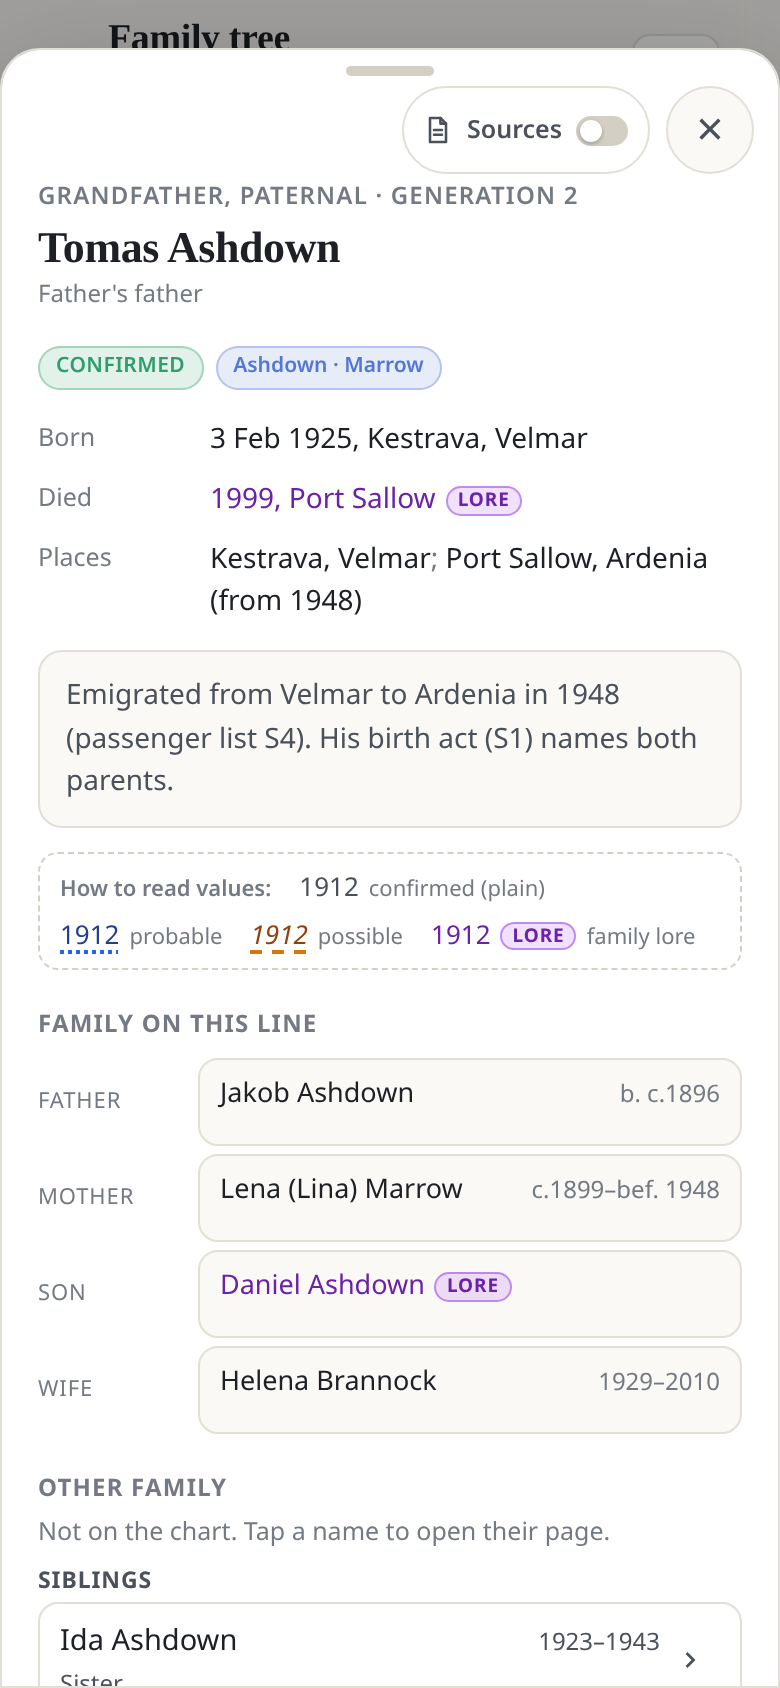
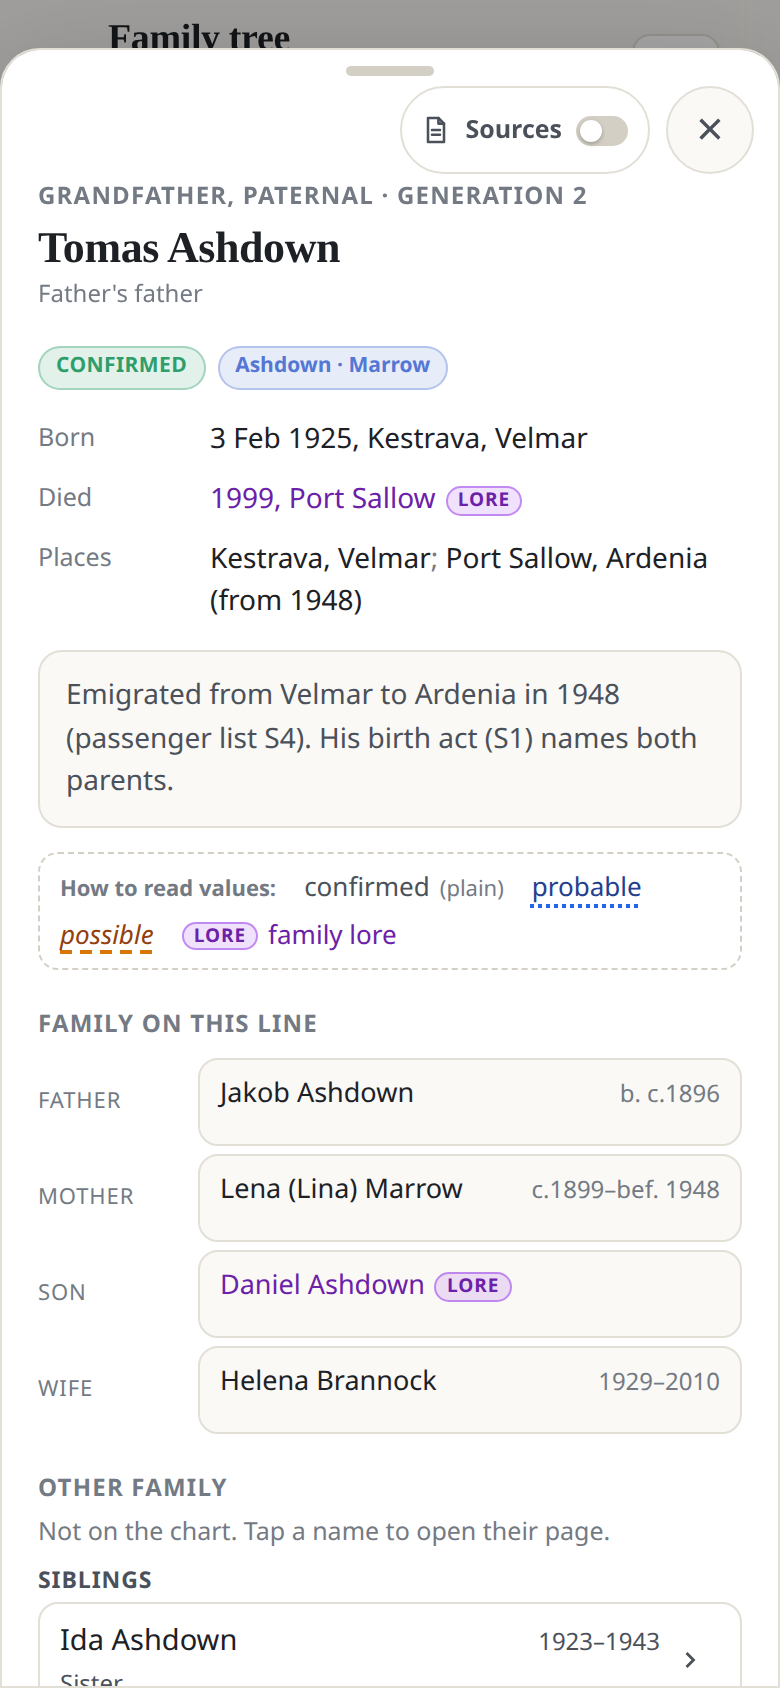
README: restructure sections (approach, how it works, limitations, run it) (#6)
* README: restructure sections (approach, how it works, limitations, run it)

* README: License spelling

* README: refresh legend screenshots (colored words, no sample dates)

---------

diff --git a/README.md b/README.md
@@ -19,56 +19,91 @@ place and record in this repository belongs to an invented example family.
 
 *All names, places and records in these screenshots are invented.*
 
-## Install the private site as an app (PWA)
-The generated site ships a web app manifest, service worker and fan-chart home-screen icons.
-On phone or desktop, open the published URL (behind your login), use the browser’s **Add to Home Screen** / **Install**, and you get a standalone Family Tree app with the circular fan icon.
+## Approach
 
-## What you need
-**A plain chat assistant is not enough.** The agent must have:
-- **persistent files** (research runs over days or weeks, with hundreds of files and scans);
-- a **shell** with Python 3 (+ Pillow), Node.js (npm) and curl;
-- a **browser it can drive** (many archives are JavaScript viewers or block plain HTTP clients);
-- **image reading** (handwritten registers in many languages and scripts);
-- **background / long-running work** and **scheduling** (research passes, reply watch, Access check);
-- **secret storage** (the user's logins and the Cloudflare token);
-- a way to **ask the user** and get approvals.
+This kit exists so a capable agent can run a long genealogy project the same way a careful human
+researcher would: every fact has a source you can open, every link is labelled for how sure it is,
+and nothing personal ever lands in the public repository.
 
-## Quick start
+The method is spelled out in [METHODOLOGY.md](METHODOLOGY.md) and the agent briefs under
+[agent/](agent/). In short:
 
-### Option 1 — Point your Grok Bot at this repo
-Paste this into Grok Bot:
-> Set up genealogy research for my family using the family-tree-kit repository at `<repo URL or path>`.
-> Read AGENT.md and follow it step by step: create a private data folder, save the rules to memory,
-> then interview me one question at a time. Use free sources first, contact no one, and ask me
-> before any login, payment, archive letter or website deploy.
+- **Interview first.** One question at a time. Capture what the family already knows as **family
+  lore** (U-sources), including spelling uncertainty, maiden names, and origin towns.
+- **Cited facts only.** Every claim gets a source ID (S- or U-number) and one of four confidence
+  labels: **confirmed**, **probable**, **possible**, or **family lore**. Labels apply per fact, not
+  only per person.
+- **Free sources first; read the scan.** Indexes are leads. A fact becomes confirmed only after the
+  record image (or an authoritative transcript) is read. Negatives and blocked searches are logged
+  so the next pass does not repeat them.
+- **Record everyone the record shows.** Siblings, half-siblings, a spouse's parents, and related
+  witnesses or informants get their own entries and can appear as "Other family" on the site — not
+  only the direct line.
+- **The user decides.** The agent proposes relationship links and confidence changes; it never
+  applies them alone. Archive letters are drafted by the agent and **sent by the user**.
+- **Append-only research files.** Back up before edits; correct by adding a dated section, never by
+  rewriting history.
 
-Grok Bot runs research passes in background workers, uses its own browser for archive viewers, keeps
-logins in its vault, asks you with choice buttons, writes long reports as Pages, and can run the
-recommended routines.
+### Inspiration
 
-### Option 2 — Any agent with those capabilities
-Give it `AGENT.md` as its instructions. The table at the end of `AGENT.md` maps each Grok Bot term
-(background worker, vault, routine, choice widget, Page) to a generic equivalent (sub-process, secret
-store, cron, numbered question, report file).
+[Anthony Pompliano](https://x.com/APompliano) wrote about setting up a **Genealogist Bot** with Grok Bot and digging deep into his own family history — a vivid public example of what one person can already do with a capable agent:
 
-### Try the site locally (no account needed)
+[Anthony Pompliano](https://x.com/APompliano) — [Genealogist Bot (X)](https://x.com/APompliano/status/2116967151537996188)
+
+[![Anthony Pompliano’s public post about using a Genealogist Bot with Grok Bot](docs/inspiration-pompliano.png)](https://x.com/APompliano/status/2116967151537996188)
+
+*Screenshot of [Pompliano](https://x.com/APompliano)’s [public post](https://x.com/APompliano/status/2116967151537996188) (GitHub README does not reliably render live X embeds, so the image is included for the feed view; click through for the original).*
+
+In spite of that — individuals already doing this with Grok Bot — **we created this project so anyone can do it**: the research method, agent instructions, templates, tools, and a private family-tree site kit, not gatekept to one person’s bot.
+
+## What it does
+
+- A full research method for long-running agents: interview, recursive search, evidence handling,
+  collateral / FAN-club work, archive-request drafting, and audit passes.
+- Empty templates and small tools for IDs, sidecars, backups, polite queries, Access checks and a
+  privacy sweep.
+- An optional **private** static site: circular fan chart, person panels with per-fact confidence
+  styling, record lightbox with "why this record matters", fuzzy search, people table, open
+  questions and archive-request status.
+- Confidence shown as colored words in the legend (`confirmed`, `probable`, `possible`, `family
+  lore` with a LORE pill) — no sample dates that look like real profile values.
+- Installable as a PWA (manifest, service worker, fan-chart icons) once the site is published behind
+  a login.
+- A fictional example family only in this repo; real trees live in a private folder the agent
+  creates.
+
+## How it works
+
+Two halves: **research and data**, then **visualization**. The public kit never holds personal data;
+the agent builds a private project folder and the site generator reads that folder.
+
+```mermaid
+flowchart TB
+  subgraph ingest ["1. Data ingestion and processing"]
+    direction TB
+    I[Interview / family lore U-sources] --> S[Record searches on free sources]
+    S --> R[Sources, scans, sidecar files]
+    R --> P[people.md · sources.md · relationships.md]
+    P --> C[ID checks · process-word lint · privacy gates]
+  end
+  subgraph viz ["2. Visualization"]
+    direction TB
+    B["build.py → static fan-chart PWA"] --> D[Deploy behind Cloudflare Access login]
+  end
+  C --> B
 ```
-cd site && npm install && cd ..
-python3 site/build.py                     # builds the fictional example into build/example-site/
-python3 tools/screenshot.py build/example-site docs --require-example   # optional
-python3 tools/screenshot_interactive.py build/example-site docs [--tip-only|--evidence-only]   # optional; panel + hover tip, desktop evidence (mobile shots unless a flag); needs `pip install playwright` + Chrome
-python3 -m unittest discover -s site/tests
-python3 -m unittest discover -s tools/tests
-```
 
-## How it fits together
-```
-family-tree-kit/  (this repo, public, no personal data)       ~/genealogy-trees/<tree>/  (PRIVATE, created by the agent)
-  AGENT.md  METHODOLOGY.md  agent/  templates/  tools/  ──►    people.md sources.md records/ collateral/ drafts/ …
-  site/build.py  site/web/  ◄── reads ───────────────────────  site/people_spec.py  site/site.config.json
-        │
-        └── builds a static site ──► Cloudflare Pages project with a random name, behind Cloudflare Access
-```
+**1. Data ingestion and processing.** The agent interviews, searches free archives and indexes,
+downloads scans, writes append-only research files and record sidecars, and keeps collateral
+relatives in their own folder. `tools/check_ids.py` (and the site build) warn when other-family
+lists look thin or when site-facing notes talk about migration/build process instead of the person.
+Local privacy hooks and a name-blind public CI check try to keep personal data out of this repo
+before anything is shared.
+
+**2. Visualization.** `site/build.py` reads the private curated spec and research files, re-encodes
+record images, vendors D3 and Fuse.js, and writes a static PWA. Deploy is opt-in: Access must
+redirect to a login **before** any real data is uploaded, and the deploy script re-checks afterwards.
+See [FEATURES.md](FEATURES.md) and [SECURITY.md](SECURITY.md).
 
 | Path | What |
 |---|---|
@@ -81,35 +116,129 @@ family-tree-kit/  (this repo, public, no personal data)       ~/genealogy-trees/
 | [tools/](tools/) | project setup, backups, ID checks, sidecars and indexes, scans, polite queries, Access check, privacy sweep |
 | [site/](site/) | the generator (`build.py`, `pwa.py`, `web/`), config, the fictional example, tests |
 
-## Privacy promise
-- Research data, record images, the curated spec and the site config live **only** in the private
-  folder. The repo ships an invented family.
-- The site is deployed only after Cloudflare Access is **verified** (302 to your Access login) on
-  production and preview URLs; the deploy re-checks afterwards.
-- No surnames in the project name, domain, page title or app name; strict publication defaults
-  for possibly-living people; no third-party scripts; not indexable.
+## Privacy
+
+Personal data belongs only in the private project folder and, if you deploy, behind a login. This
+repository ships an invented family. Several **safeguards** reduce the chance that private names or
+secrets leak into the public kit — they are filters and review steps, **not a guarantee**:
+
+- Research files, record images, the curated spec and the site config live **only** in the private
+  folder. Screenshots in this README are of the fictional example only.
+- Pattern-based local sweeps (`privacy_grep.py` with a per-project private word list) and a
+  **name-blind** public CI mode check for secret shapes, forbidden paths and non-example images.
+  Pattern matching can miss variants; the public check never sees your real names.
+- Pre-commit / pre-push hooks (local, never committed) and `--public-ci` on pull requests are
+  backstops. A human still reviews every PR before merge — especially screenshots.
+- The site deploys only after Cloudflare Access is verified (302 to your Access login) on production
+  and preview URLs; the deploy re-checks afterwards. No surnames in the project name, domain, page
+  title or app name; strict publication defaults for possibly-living people; no third-party scripts;
+  not indexable.
 - The agent contacts no one: it drafts archive letters, **you** send them.
 
-## Inspiration
+Treat these as layers that lower risk. Always assume a check can miss something; review before
+anything goes public. Details: [SECURITY.md](SECURITY.md).
 
-[Anthony Pompliano](https://x.com/APompliano) wrote about setting up a **Genealogist Bot** with Grok Bot and digging deep into his own family history — a vivid public example of what one person can already do with a capable agent:
+## Build log
 
-[Anthony Pompliano](https://x.com/APompliano) — [Genealogist Bot (X)](https://x.com/APompliano/status/2116967151537996188)
+### Research and data
+- **v0.1.0** — first kit: method, agent instructions, templates, tools, fictional example, migration feedback from earlier research work.
+- **v0.2.0–v0.2.1** — research-process lessons (backups, negatives, indexes-first, propose-before-changing links); confidence qualifiers; home-person merge and draft renumbering; private-words list required.
+- **v0.2.2–v0.2.3** — safer draft renumbering; privacy whole-word + simple suffixes; `--strict` required before sharing.
+- **v0.2.10** — multi-layer privacy filters: `GENEALOGY_PRIVATE_WORDS`, pre-commit/pre-push hooks, name-blind `--public-ci`, public CI workflow.
+- **v0.2.12** — record every relationship a record shows; warn when `OTHER_FAMILY` / `RELATIVES` look empty; warn on process wording in person notes.
+- **v0.2.14** — same process-word lint on record sidecars: "Why this record matters", Notes, Summary.
 
-[![Anthony Pompliano’s public post about using a Genealogist Bot with Grok Bot](docs/inspiration-pompliano.png)](https://x.com/APompliano/status/2116967151537996188)
+### Site and docs
+- **v0.2.4–v0.2.6** — README screenshots from the fictional example (including interactive panel, evidence and hover-tip shots).
+- **v0.2.7–v0.2.9** — credits and thanks; Inspiration (Pompliano); note of a future distributed-archive idea (not implemented).
+- **v0.2.11** — first public release of the kit.
+- **v0.2.13** — confidence legend colors the words themselves; no sample date values like "1912".
 
-*Screenshot of [Pompliano](https://x.com/APompliano)’s [public post](https://x.com/APompliano/status/2116967151537996188) (GitHub README does not reliably render live X embeds, so the image is included for the feed view; click through for the original).*
+Full notes: [CHANGELOG.md](CHANGELOG.md).
 
-In spite of that — individuals already doing this with Grok Bot — **we created this project so anyone can do it**: the research method, agent instructions, templates, tools, and a private family-tree site kit, not gatekept to one person’s bot.
+## Limitations
 
-### A future idea (not in this kit today)
+- **No linking across trees.** Each family tree is its own private project folder. `new_project.py`
+  creates sibling folders and refuses to nest one tree inside another; there is no tool to connect,
+  merge or sync two trees (shared ancestors, shared people IDs, or a combined site).
+- **No GEDCOM import or export.** The data model is the kit's Markdown / sidecar / `people_spec.py`
+  files. There is no GEDCOM reader or writer in this repository.
+- **Depends on free online sources first.** Many archives need a login, a captcha, or an off-line
+  request. The agent does not bypass walls; those paths stay on a "needs the user" list or become
+  draft archive letters for you to send.
+- **Agent output still needs a human.** Relationship links and confidence changes are proposals until
+  you approve them. Pull requests are reviewed by a person before merge.
+- **Privacy checks are pattern-based.** The local word list catches listed forms (plus a few simple
+  suffixes); it does not stem or understand context. Public CI is deliberately name-blind. Both can
+  miss things.
+- **Fan chart shows direct ancestors only.** Collateral and other relatives appear in person panels
+  ("Other family"), not as rings on the chart.
+- **Single protected site per tree.** The intended deploy is one Cloudflare Pages project behind
+  Access for that tree. GitHub Pages and other public static hosts are not suitable.
+- **Handwriting and indexes remain hard.** Misreadings and weak index hits are expected; the method
+  treats indexes as leads and keeps reading corrections append-only.
 
-Separately, we would like to see a **distributed volunteer / distributed-compute archive project**: people (and their agents) could **optionally** contribute lightweight **text findings**, proofs, and links — and, if images are involved at all, only **minimal processed record snippets** — so others can reuse hard-won archive leads without reinventing the search. **Personal trees would not live in a central store.** This kit does **not** implement that; it remains a local/private research + site kit. Contributions, if any such network appears later, would be opt-in and separate from your private tree folder.
+## Run it
+
+### What you need
+
+**A plain chat assistant is not enough.** The agent must have:
+
+- **persistent files** (research runs over days or weeks, with hundreds of files and scans);
+- a **shell** with Python 3 (+ Pillow), Node.js (npm) and curl;
+- a **browser it can drive** (many archives are JavaScript viewers or block plain HTTP clients);
+- **image reading** (handwritten registers in many languages and scripts);
+- **background / long-running work** and **scheduling** (research passes, reply watch, Access check);
+- **secret storage** (the user's logins and the Cloudflare token);
+- a way to **ask the user** and get approvals.
+
+### Option 1 — Point your Grok Bot at this repo
+
+Paste this into Grok Bot:
+
+> Set up genealogy research for my family using the family-tree-kit repository at `<repo URL or path>`.
+> Read AGENT.md and follow it step by step: create a private data folder, save the rules to memory,
+> then interview me one question at a time. Use free sources first, contact no one, and ask me
+> before any login, payment, archive letter or website deploy.
+
+Grok Bot runs research passes in background workers, uses its own browser for archive viewers, keeps
+logins in its vault, asks you with choice buttons, writes long reports as Pages, and can run the
+recommended routines.
+
+### Option 2 — Any agent with those capabilities
+
+Give it `AGENT.md` as its instructions. The table at the end of `AGENT.md` maps each Grok Bot term
+(background worker, vault, routine, choice widget, Page) to a generic equivalent (sub-process, secret
+store, cron, numbered question, report file).
+
+### Try the site locally (no account needed)
+
+```
+cd site && npm install && cd ..
+python3 site/build.py                     # builds the fictional example into build/example-site/
+python3 tools/screenshot.py build/example-site docs --require-example   # optional
+python3 tools/screenshot_interactive.py build/example-site docs [--tip-only|--evidence-only]   # optional; panel + hover tip, desktop evidence (mobile shots unless a flag); needs `pip install playwright` + Chrome
+python3 -m unittest discover -s site/tests
+python3 -m unittest discover -s tools/tests
+```
+
+### Install the private site as an app (PWA)
+
+Once you have published a tree behind your login, open the URL on phone or desktop, use the
+browser’s **Add to Home Screen** / **Install**, and you get a standalone Family Tree app with the
+circular fan icon. The generator ships the manifest, service worker and icons.
+
+## License
+
+MIT for the code and docs (see [LICENSE](LICENSE)). Vendored libraries keep their own licences:
+D3 (ISC) and Fuse.js (Apache-2.0), copied into each build's `vendor/LICENSES.txt`.
+Third-party notes, and the still-open choice for the docs, are in [NOTICE](NOTICE).
 
 ## Credits and thanks
+
 This kit stands on the shoulders of giants. With real gratitude to the people who built and maintain the work it relies on:
 
-- **[D3](https://d3js.org/)** ([GitHub](https://github.com/d3/d3)) — the heart of the circular fan chart (`site/web/fan.js`: hierarchy, partition, arc, zoom, colour interpolation). D3 was created by [Mike Bostock](https://bost.ocks.org/mike/) and is maintained with [Philippe Rivière](https://github.com/Fil) and [many contributors](https://github.com/d3/d3/graphs/contributors). Thank you — the chart simply would not exist without it. ISC licence; copied into each build's `vendor/`.
+- **[D3](https://d3js.org/)** ([GitHub](https://github.com/d3/d3)) — the heart of the circular fan chart (`site/web/fan.js`: hierarchy, partition, arc, zoom, colour interpolation). D3 was created by [Mike Bostock](https://bost.ocks.org/mike/) and is maintained with [Philippe Rivière](https://github.com/Fil) and [many contributors](https://github.com/d3/d3/graphs/contributors). Thank you — the chart simply would not exist without it. ISC license; copied into each build's `vendor/`.
 - **[webtrees fan chart](https://github.com/magicsunday/webtrees-fan-chart)** by [Rico Sonntag (magicsunday)](https://github.com/magicsunday), a module for [webtrees](https://webtrees.net/) — the inspiration for our fan chart's look and layout (already noted in `fan.js` and the site footer). Our `fan.js` is written from scratch, but the idea came from this lovely project.
 - **[Fuse.js](https://www.fusejs.io/)** ([GitHub](https://github.com/krisk/Fuse)) by Kiro Risk and contributors — fuzzy search over people, places and records (`site/web/search.js`). Apache-2.0; copied into `vendor/`.
 - **[Pillow](https://python-pillow.org/)** ([GitHub](https://github.com/python-pillow/Pillow)), the friendly PIL fork by Jeffrey A. Clark and contributors — record-image re-encoding, PWA icons and image helpers in `tools/`.
@@ -118,7 +247,6 @@ Optional screenshot tooling for the fictional example only: [Playwright](https:/
 
 The data structure, person panel and record lightbox were designed for this kit; the repo does not document borrowing them from another family-tree product, so none is credited here. If you recognise an influence we missed, please tell us and we will gladly add it.
 
-## Licence
-MIT for the code and docs (see [LICENSE](LICENSE)). Vendored libraries keep their own licences:
-D3 (ISC) and Fuse.js (Apache-2.0), copied into each build's `vendor/LICENSES.txt`.
-Third-party notes, and the still-open choice for the docs, are in [NOTICE](NOTICE).
+## A future idea (not in this kit today)
+
+Separately, we would like to see a **distributed volunteer / distributed-compute archive project**: people (and their agents) could **optionally** contribute lightweight **text findings**, proofs, and links — and, if images are involved at all, only **minimal processed record snippets** — so others can reuse hard-won archive leads without reinventing the search. **Personal trees would not live in a central store.** This kit does **not** implement that; it remains a local/private research + site kit. Contributions, if any such network appears later, would be opt-in and separate from your private tree folder.
